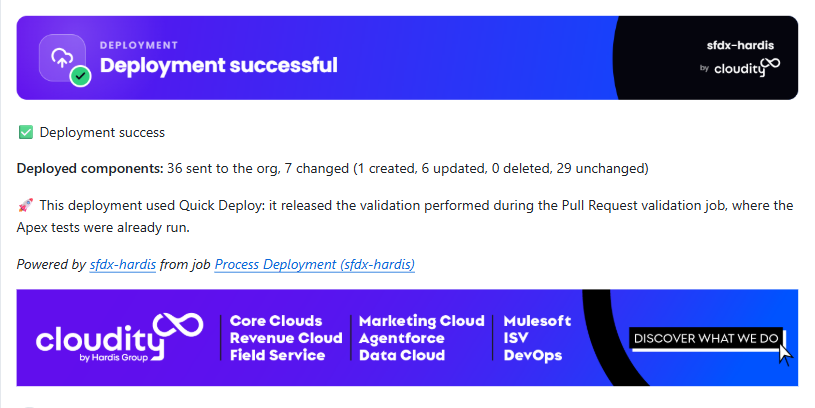
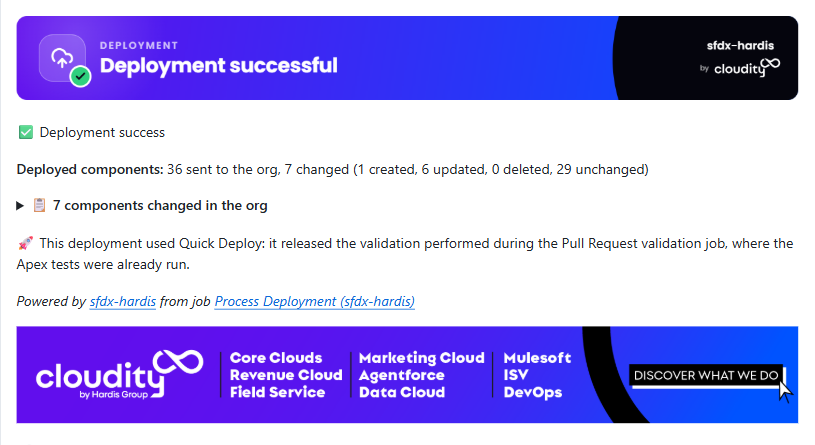
fix: the Level 1 walk of 2026-10-06, on the next release (#91)
* fix(teardown): retry an sf call on a transient DNS error, and say when a cleanup step failed

* docs(labs 1.2, 1.3, 1.5, 1.6, 1.7): a New User Story on a taken name, and the fork address only where a step opens it

* docs(labs 1.2, 1.3, 1.5, 1.6, 1.7): French translation

* fix(lab 1.6): the checks table cites the pills the picture draws, and the comment picture shows the Simulated deployment line

* fix(lab 1.6): the deployment comment picture, retaken on a walk with the next release

* fix(labs 1.2, 1.5): Level 1 pictures retaken with the current extension, the org alias one on integration

* docs(changelog): the Level 1 walk of 2026-10-06

* fix: review of the Level 1 walk, teardown failures reported in every step, deploys streamed again, Lab 1.3 taken name by origin

* docs(labs 1.3, 1.5, 1.6): French translation of the review fixes

* docs(labs 1.6, 3.5): code coverage first in the comment, the protected metadata table collapsed (sfdx-hardis #2304)

* docs(labs 1.6, 3.5): French translation

* docs(changelog): comment layout of sfdx-hardis #2304

* fix(lab 1.6): the check comment picture retaken on the beta with sfdx-hardis #2304, coverage first

* fix(lab 2.4): the Helios project turns the manual action gate on, off by default since sfdx-hardis #2305

Changed region(s): [[0.0, 0.0294, 0.9816, 0.7353], [0.0307, 0.7647, 0.9816, 0.9706]]

diff --git a/labs/fr/level-1-contributor-basics/1-6-pull-request-deployment-check-and-merge.md b/labs/fr/level-1-contributor-basics/1-6-pull-request-deployment-check-and-merge.md
@@ -5,7 +5,7 @@ description: "Ouvrez une Pull Request GitHub, lisez le contrôle de déploiement
 level: 1
 lab: 6
 lang: fr
-source_rev: "8234def2c3d19cf3752d21be9c04204c40ca0ff8"
+source_rev: "e0b26bac584c1b1a250237b3044c45a656322ceb"
 screenshots:
   - annotated/web/github-pr-checks
   - annotated/web/github-pr-comment
@@ -111,8 +111,8 @@ Ouvrez l'onglet **Checks** **(1)**. Deux d'entre eux comptent ici, et les deux d
 
 | Contrôle                                      | Ce qu'il fait                                                                                  |
 |-----------------------------------------------|------------------------------------------------------------------------------------------------|
-| **Simulate Deployment (sfdx-hardis)** **(3)** | Déploie votre métadonnée dans `helios-integration` en mode validation, et lance les tests Apex |
-| **Mega-Linter** **(2)**                       | Lance les linters de qualité de code sur le repository                                         |
+| **Simulate Deployment (sfdx-hardis)** **(2)** | Déploie votre métadonnée dans `helios-integration` en mode validation, et lance les tests Apex |
+| **Mega-Linter** **(3)**                       | Lance les linters de qualité de code sur le repository                                         |
 
 ![L'onglet Checks d'une Pull Request, listant les jobs qui ont tourné](../../_assets/annotated/web/github-pr-checks.png)
 
@@ -144,14 +144,14 @@ Quand le contrôle de déploiement se termine, sfdx-hardis écrit un commentaire
 ![Le commentaire sfdx-hardis sur une Pull Request](../../_assets/annotated/web/github-pr-comment.png)
 
 1. **La bannière** **(1)** dit si le déploiement simulé a réussi
-2. **Ce qui changerait** **(2)**. Pas une liste de vos fichiers : sfdx-hardis envoie le package
+2. **La couverture Apex** **(2)**, juste en dessous, face à l'objectif que fixe ce projet
+3. **Ce qui changerait** **(3)**. Pas une liste de vos fichiers : sfdx-hardis envoie le package
    entier, `manifest/package.xml`, et Salesforce répond quelle part en diffère : `Simulated
    deployment: 36 components validated against the org, 7 would change (1 created, 6 updated, 0
    deleted, 29 unchanged)`. Le composant créé est votre champ, et les composants mis à jour incluent
    la présentation de page et les deux permission sets que vous avez modifiés. Cliquez sur la ligne
    en dessous pour ouvrir un tableau de ces changements, par type de composant : le champ est la
    ligne **CustomField**
-3. **La couverture Apex** **(3)**, face à l'objectif que fixe ce projet
 4. **Les tickets** **(4)**, les stories qu'il a reconnues dans votre nom de branche et vos messages
    de commit, chacune avec son titre et un lien vers sa page dans le backlog
 
@@ -338,7 +338,7 @@ set sans le champ. Refaites le [Lab 1.5, étape 3](1-5-retrieve-commit-and-publi
 
 **Le contrôle reste bloqué sur "Expected".**
 Le workflow attend un job qui ne tournera jamais, en général parce que la base de la Pull Request
-est le repository d'origine et non votre fork (`github.com/my-username/sfdx-hardis-training`).
+est le repository d'origine et non votre fork.
 Fermez-la et rouvrez-la avec la bonne base.
 
 **La boîte de merge dit Merging is blocked, et le bouton est gris.**

diff --git a/labs/en/level-1-contributor-basics/1-6-pull-request-deployment-check-and-merge.md b/labs/en/level-1-contributor-basics/1-6-pull-request-deployment-check-and-merge.md
@@ -107,8 +107,8 @@ Open the **Checks** tab **(1)**. Two of them matter here, and both start on thei
 
 | Check                                         | What it does                                                                                |
 |-----------------------------------------------|---------------------------------------------------------------------------------------------|
-| **Simulate Deployment (sfdx-hardis)** **(3)** | Deploys your metadata into `helios-integration` in validation mode, and runs the Apex tests |
-| **Mega-Linter** **(2)**                       | Runs the code quality linters over the repository                                           |
+| **Simulate Deployment (sfdx-hardis)** **(2)** | Deploys your metadata into `helios-integration` in validation mode, and runs the Apex tests |
+| **Mega-Linter** **(3)**                       | Runs the code quality linters over the repository                                           |
 
 ![The Checks tab of a Pull Request, listing the jobs that ran](../../_assets/annotated/web/github-pr-checks.png)
 
@@ -138,13 +138,13 @@ the most useful thing on the page.
 ![The sfdx-hardis comment on a Pull Request](../../_assets/annotated/web/github-pr-comment.png)
 
 1. **The banner** **(1)** says whether the simulated deployment succeeded
-2. **What would change** **(2)**. Not a list of your files: sfdx-hardis sends the whole package,
+2. **Apex coverage** **(2)**, right under it, against the target this project sets
+3. **What would change** **(3)**. Not a list of your files: sfdx-hardis sends the whole package,
    `manifest/package.xml`, and Salesforce answers how much of it differs: `Simulated deployment: 36
    components validated against the org, 7 would change (1 created, 6 updated, 0 deleted, 29
    unchanged)`. The one created is your field, and the updated ones include the layout and the two
    permission sets you changed. Click the line under it to open a table of those changes, per type
    of component: the field is the **CustomField** row
-3. **Apex coverage** **(3)**, against the target this project sets
 4. **Tickets** **(4)**, the stories it recognised in your branch name and commit messages, each
    with its title and a link to its page in the backlog
 
@@ -321,7 +321,7 @@ without the field. Redo [Lab 1.5 step 3](1-5-retrieve-commit-and-publish-your-ch
 
 **The check is stuck as "Expected".**
 The workflow is waiting for a job that will never run, usually because the base of the Pull Request
-is the original repository and not your fork (`github.com/my-username/sfdx-hardis-training`). Close it and open it again with the right base.
+is the original repository and not your fork. Close it and open it again with the right base.
 
 **The merge box says Merging is blocked, and the button is grey.**
 A required check is still running, or it failed. Wait for it, or open it from the **Checks** tab,

diff --git a/labs/fr/level-1-contributor-basics/1-2-create-your-dev-hub-scratch-orgs-and-pipeline.md b/labs/fr/level-1-contributor-basics/1-2-create-your-dev-hub-scratch-orgs-and-pipeline.md
@@ -5,7 +5,7 @@ description: "Inscrivez-vous à une org Salesforce Developer Edition gratuite, p
 level: 1
 lab: 2
 lang: fr
-source_rev: "14853cbd136b499b32e1dc8bcacfb8f76cbd4578"
+source_rev: "0990e9994b61a2ade22a0280849ae5fe07d2acb0"
 screenshots:
   - annotated/web/sf-signup
   - annotated/web/gh-cli-download
@@ -454,11 +454,9 @@ Sept choses, chacune du vrai travail sur un vrai projet, et aucune à refaire vo
 | `helios-uat`         | La recette utilisateur, où le métier teste ce que l'intégration a rassemblé           |
 
 - **Dans quelle org déploie chaque branche**, écrit dans l'unique fichier de configuration par
-  branche du projet, dans `config/branches/`, commité sur `integration` et poussé sur votre fork
-  (votre copie personnelle du repository du cours sur GitHub, par exemple
-  `github.com/my-username/sfdx-hardis-training`). Le repository ne pouvait pas le savoir : vos orgs
-  n'existaient pas quand il a été écrit. C'est poussé parce que le contrôle du badge clone votre fork
-  (`github.com/my-username/sfdx-hardis-training`) et lit ce qui s'y trouve réellement. `uat` reçoit
+  branche du projet, dans `config/branches/`, commité sur `integration` et poussé sur votre fork. Le repository ne pouvait pas le savoir : vos orgs
+  n'existaient pas quand il a été écrit. C'est poussé parce que le contrôle du badge clone votre fork et lit
+  ce qui s'y trouve réellement. `uat` reçoit
   les mêmes fichiers avec sa première promotion, au [Lab 3.5](../level-3-release-manager/3-5-promote-to-uat-and-write-release-notes.md), comme tout changement qui l'atteint
 - **`integration` et `uat` protégées.** Une Pull Request vers l'une ou l'autre ne peut être mergée
   qu'une fois que tous les contrôles que GitHub lance dessus sont terminés et verts, et cette règle
@@ -546,7 +544,7 @@ Votre `helios-dev` n'est pas dans le diagramme non plus, et c'est correct : le d
 travail est déployé, et rien n'est jamais déployé dans l'org où vous construisez.
 
 !!! note "`preprod` et `main` manquent exprès"
-    Votre fork (`github.com/my-username/sfdx-hardis-training`) a une branche `main`, et pas encore de
+    Votre fork a une branche `main`, et pas encore de
     `preprod`, et le diagramme ne montre ni l'une ni l'autre : une branche ne fait partie de la pipeline
     qu'à partir du moment où quelqu'un dit dans quelle org elle déploie, et personne ne l'a fait.
 

diff --git a/labs/fr/level-1-contributor-basics/1-5-retrieve-commit-and-publish-your-changes.md b/labs/fr/level-1-contributor-basics/1-5-retrieve-commit-and-publish-your-changes.md
@@ -5,7 +5,7 @@ description: "Rapatriez vos modifications d'org dans Git avec le Metadata Retrie
 level: 1
 lab: 5
 lang: fr
-source_rev: "d0a3a04d32929b6ab52a1f9590ff383010fc3ea1"
+source_rev: "e02b8da9d8186fdb3574371c6b54375323049f2d"
 screenshots:
   - annotated/vscode/pipeline-cards-level1--commit-changes
   - annotated/vscode/metadata-retriever-recent-changes--find
@@ -325,8 +325,7 @@ qui a effectué, dans cet ordre :
 4. **Commité ce qu'il a modifié**, sous `chore(sfdx-hardis): update package content` et
    `chore(sfdx-hardis): clean sfdx project`. Ces commits sont ceux de l'outil, pas les vôtres : le
    vôtre est celui que vous avez écrit à l'étape 4
-5. **Poussé** la branche sur votre fork (votre copie personnelle du repository du cours sur GitHub, par
-   exemple `github.com/my-username/sfdx-hardis-training`)
+5. **Poussé** la branche sur votre fork
 
 Chacune de ces étapes est de la configuration, pas de la magie. Tout ce qu'il a fait est dans
 `config/.sfdx-hardis.yml`, et un projet qui veut un autre comportement change ce fichier.
@@ -383,14 +382,14 @@ plus. Lisez les règles de nettoyage dans le bloc Sous le capot ci-dessus. Rien 
 org : le nettoyage change ce qui est commité, jamais ce qui est dans Salesforce.
 
 **Le push est rejeté.**
-Votre fork (`github.com/my-username/sfdx-hardis-training`) a bougé, en général parce que vous avez
+Votre fork a bougé, en général parce que vous avez
 réinitialisé un niveau. Tirez d'abord : panneau Source Control, menu **...**, **Pull**.
 
 ## Vérifiez votre travail
 
 Welcome page > **Training: Level 1** > **Check my work**, puis choisissez le **Lab 1.5**.
 
-Il lit la copie de votre branche dans votre fork (`github.com/my-username/sfdx-hardis-training`),
+Il lit la copie de votre branche dans votre fork,
 celle que Save / Publish a poussée : le champ, le permission set qui l'accorde, et la présentation de
 page qui le porte. Un commit resté sur votre machine ne compte pas, parce que personne d'autre ne
 peut le voir.

diff --git a/labs/en/level-1-contributor-basics/1-2-create-your-dev-hub-scratch-orgs-and-pipeline.md b/labs/en/level-1-contributor-basics/1-2-create-your-dev-hub-scratch-orgs-and-pipeline.md
@@ -430,9 +430,9 @@ Seven things, each of them real work on a real project, and none of them yours t
 | `helios-uat`         | User acceptance, where the business tests what integration has collected |
 
 - **Which org each branch deploys to**, written into the project's one configuration file per
-  branch, in `config/branches/`, committed on `integration` and pushed to your fork (your own copy of the course repository on GitHub, for example `github.com/my-username/sfdx-hardis-training`). The repository
+  branch, in `config/branches/`, committed on `integration` and pushed to your fork. The repository
   could not know that: your orgs did not exist when it was written. It is pushed because the badge
-  check clones your fork (`github.com/my-username/sfdx-hardis-training`) and reads what is actually in it. `uat` receives the same files with its
+  check clones your fork and reads what is actually in it. `uat` receives the same files with its
   first promotion, in [Lab 3.5](../level-3-release-manager/3-5-promote-to-uat-and-write-release-notes.md), the way every change reaches it
 - **`integration` and `uat` protected.** A Pull Request into either one can only be merged once
   every check GitHub runs on it has finished green, and that rule holds for you too, the owner of
@@ -514,7 +514,7 @@ Your own `helios-dev` is not in the diagram either, and that is correct: the dia
 is deployed, and nothing is ever deployed into the org you build in.
 
 !!! note "`preprod` and `main` are missing on purpose"
-    Your fork (`github.com/my-username/sfdx-hardis-training`) has a `main` branch, and no
+    Your fork has a `main` branch, and no
     `preprod` yet, and the diagram shows neither: a branch becomes part of the pipeline only once
     somebody says which org it deploys to, and nobody has.
 

diff --git a/labs/fr/level-1-contributor-basics/1-3-start-a-user-story-on-a-git-branch.md b/labs/fr/level-1-contributor-basics/1-3-start-a-user-story-on-a-git-branch.md
@@ -5,7 +5,7 @@ description: "Prenez votre premier ticket du backlog et créez sa branche Git et
 level: 1
 lab: 3
 lang: fr
-source_rev: "9c0626c6cc38da209d2afd619561a0e94eaff865"
+source_rev: "e02b8da9d8186fdb3574371c6b54375323049f2d"
 screenshots:
   - annotated/vscode/pipeline-cards-level1--new-user-story
   - annotated/vscode/work-new-story-type
@@ -241,6 +241,19 @@ construit quelque chose.
 **La commande refuse le nom.**
 Le motif qu'utilise ce projet est `US-014-panels-required` : trois chiffres, puis des mots en
 minuscules séparés par des tirets. `US14-PanelsRequired` est rejeté exprès.
+
+**Elle dit que la branche existe déjà et demande un autre nom.**
+Une nouvelle User Story ne réutilise jamais une branche : une ancienne branche emporterait ses propres
+commits dans votre Pull Request. La sortie dépend de l'origine de cette branche :
+
+- **Vous travaillez en ce moment sur US-014**, et la commande s'est arrêtée en route ou vous avez
+  cliqué deux fois sur **New User Story**. Vous n'avez pas besoin d'une deuxième branche : cliquez
+  sur **Cancel**, puis sur le nom de la branche en bas à gauche de la barre d'état, et choisissez
+  `features/US-014-panels-required` dans la liste. Si vous aviez des changements non commités, la
+  commande les a mis de côté avant de demander : l'entrée suivante les récupère
+- **Elle reste d'une tentative abandonnée**, après un **Reset this level** qui l'a gardée. N'y
+  retournez pas : elle part d'un ancien `integration`. Tapez plutôt un nouveau nom,
+  `US-014-panels-required-2`, et continuez à partir de là
 
 **Un fichier que vous éditiez a disparu.**
 Vous avez modifié quelque chose avant de démarrer, et `hardis:work:new` n'emporte jamais du travail

diff --git a/labs/fr/level-1-contributor-basics/1-7-capstone-deliver-a-user-story-on-your-own.md b/labs/fr/level-1-contributor-basics/1-7-capstone-deliver-a-user-story-on-your-own.md
@@ -5,7 +5,7 @@ description: "Livrez une User Story Salesforce de bout en bout sans pas-à-pas :
 level: 1
 lab: 7
 lang: fr
-source_rev: "227087b70542c7fdd5f235321968b5154475be67"
+source_rev: "0990e9994b61a2ade22a0280849ae5fe07d2acb0"
 screenshots:
   - annotated/web/github-star-sfdx-hardis
 depends_on:
@@ -124,7 +124,7 @@ depuis un lien et le formulaire refuse d'être soumis tant qu'elle affiche *None
 trois cases et cliquez sur **Create**.
 
 Ces trois cases sont à vous de cocher, et rien ne les coche à votre place. Elles disent que votre
-fork (`github.com/my-username/sfdx-hardis-training`) est public et que votre pseudo GitHub devient
+fork est public et que votre pseudo GitHub devient
 public dans le repository de formation, ce qui est une décision à propos de votre nom plutôt qu'une
 formalité.
 
@@ -136,12 +136,12 @@ formalité.
 
     ![Le bouton Star du repository sfdx-hardis sur GitHub](../../_assets/annotated/web/github-star-sfdx-hardis.png)
 
-Un job clone ensuite votre fork (`github.com/my-username/sfdx-hardis-training`), rejoue sur lui tous
+Un job clone ensuite votre fork, rejoue sur lui tous
 les contrôles ci-dessus, et répond sur l'issue. Personne ne le relit à la main, cela prend donc
 généralement deux minutes. Si quelque chose ne se vérifie pas, le commentaire nomme le lab exact et
 ce qu'il a cherché, vous corrigez, et vous modifiez l'issue pour le relancer.
 
-Votre fork (`github.com/my-username/sfdx-hardis-training`) doit être **public** pour que l'audit
+Votre fork doit être **public** pour que l'audit
 puisse le lire. S'il est privé, la commande propose de le rendre public.
 
 !!! note "C'est un badge, pas une certification"

diff --git a/labs/en/level-1-contributor-basics/1-7-capstone-deliver-a-user-story-on-your-own.md b/labs/en/level-1-contributor-basics/1-7-capstone-deliver-a-user-story-on-your-own.md
@@ -117,7 +117,7 @@ it. One field is not filled in: pick your level in the **Level** dropdown, becau
 not prefill a dropdown from a link and the form refuses to submit while it says *None*. Then tick
 the three boxes and click **Create**.
 
-Those three boxes are yours to tick, and nothing ticks them for you. They say your fork (`github.com/my-username/sfdx-hardis-training`) is public
+Those three boxes are yours to tick, and nothing ticks them for you. They say your fork is public
 and your GitHub handle becomes public in the training repository, which is a decision about your
 name rather than a formality.
 
@@ -128,12 +128,12 @@ name rather than a formality.
 
     ![The Star button of the sfdx-hardis repository on GitHub](../../_assets/annotated/web/github-star-sfdx-hardis.png)
 
-A job then clones your fork (`github.com/my-username/sfdx-hardis-training`), re-runs every check above against it, and answers on the issue. Nobody
+A job then clones your fork, re-runs every check above against it, and answers on the issue. Nobody
 reviews it by hand, so it usually takes a couple of minutes. If something does not verify, the
 comment names the exact lab and what it looked for, you fix it, and you edit the issue to run it
 again.
 
-Your fork (`github.com/my-username/sfdx-hardis-training`) has to be **public** for the audit to read it. If it is private, the command offers to
+Your fork has to be **public** for the audit to read it. If it is private, the command offers to
 make it public.
 
 !!! note "It is a badge, not a certification"

diff --git a/labs/en/level-1-contributor-basics/1-5-retrieve-commit-and-publish-your-changes.md b/labs/en/level-1-contributor-basics/1-5-retrieve-commit-and-publish-your-changes.md
@@ -309,7 +309,7 @@ which performed, in order:
 4. **Committed what it changed**, as `chore(sfdx-hardis): update package content` and
    `chore(sfdx-hardis): clean sfdx project`. Those commits are the tool's, not yours: yours is the
    one you wrote at step 4
-5. **Pushed** the branch to your fork (your own copy of the course repository on GitHub, for example `github.com/my-username/sfdx-hardis-training`)
+5. **Pushed** the branch to your fork
 
 Every one of those steps is configuration, not magic. Everything it did is in
 `config/.sfdx-hardis.yml`, and a project that wants different behaviour changes that file.
@@ -362,14 +362,14 @@ cleaning rules in the Under the hood block above. Nothing is lost in your org: c
 is committed, never what is in Salesforce.
 
 **Push is rejected.**
-Your fork (`github.com/my-username/sfdx-hardis-training`) moved, usually because you reset a level. Pull first: Source Control panel, **...** menu,
+Your fork moved, usually because you reset a level. Pull first: Source Control panel, **...** menu,
 **Pull**.
 
 ## Check your work
 
 Welcome page > **Training: Level 1** > **Check my work**, then pick **Lab 1.5**.
 
-It reads the copy of your branch in your fork (`github.com/my-username/sfdx-hardis-training`), the one Save / Publish pushed: the field, the
+It reads the copy of your branch in your fork, the one Save / Publish pushed: the field, the
 permission set granting it, and the layout carrying it. A commit that stayed on your machine does
 not count, because nobody else can see it.
 

diff --git a/labs/en/level-1-contributor-basics/1-3-start-a-user-story-on-a-git-branch.md b/labs/en/level-1-contributor-basics/1-3-start-a-user-story-on-a-git-branch.md
@@ -230,6 +230,19 @@ something.
 The pattern this project uses is `US-014-panels-required`: three digits, then lowercase words
 separated by hyphens. `US14-PanelsRequired` is rejected on purpose.
 
+**It says the branch already exists and asks for another name.**
+A new User Story never reuses a branch: an old branch would carry its own commits into your Pull
+Request. Which way out depends on where that branch comes from:
+
+- **You are working on US-014 right now**, and the command stopped halfway or you clicked **New User
+  Story** twice. You do not need a second branch: click **Cancel**, then click the branch name at the
+  bottom left of the status bar and pick `features/US-014-panels-required` from the list. If you had
+  changes you had not committed, the command put them aside before it asked: the next entry gets
+  them back
+- **It is left over from an attempt you gave up**, after **Reset this level** kept it. Do not go back
+  to it: it starts from an old `integration`. Type a new name instead, `US-014-panels-required-2`,
+  and carry on from there
+
 **A file you were editing has disappeared.**
 You changed something before starting, and `hardis:work:new` never carries stray work onto a fresh
 branch: it puts it aside in a *stash*, and says so in its panel, naming the files. To get them back

diff --git a/CHANGELOG.md b/CHANGELOG.md
@@ -5,6 +5,12 @@ a day, newest first, and a change goes under the date of the day it is made.
 
 ## 2026-10-06
 
+- Lab 2.4: the Helios project turns on the stop of the check on a pending manual step, which sfdx-hardis no longer does by default.
+- Clean up a training org says when a step failed instead of "nothing to remove", and retries when the org's address briefly does not answer.
+- Lab 1.3: what to do when New User Story says the branch already exists.
+- Lab 1.6: the checks table names the pills the picture carries, the check comment picture shows the Simulated deployment line, and the deployment one its table of changes.
+- Level 1: the address of your fork is spelled out where a step opens it, not in every paragraph.
+- Labs 1.6 and 3.5: the comment shows the code coverage first, and its protected metadata table is opened from a collapsed section.
 - Labs 1.6 and 3.2: the Pull Request comment reads "Simulated deployment" on a check, with a table of the changes per type of component.
 - Lab 3.5: the Pull Request comment shows the remote site setting protected by package-no-overwrite.xml.
 - Lab 3.1: JWT is configured for preprod and production only, the configuration starts with a New User Story, and the second secret has its own picture.

diff --git a/labs/fr/level-3-release-manager/3-5-promote-to-uat-and-write-release-notes.md b/labs/fr/level-3-release-manager/3-5-promote-to-uat-and-write-release-notes.md
@@ -5,7 +5,7 @@ description: "Protégez ce que l'UAT garde pour elle avec package-no-overwrite, 
 level: 3
 lab: 5
 lang: fr
-source_rev: "8234def2c3d19cf3752d21be9c04204c40ca0ff8"
+source_rev: "e0b26bac584c1b1a250237b3044c45a656322ceb"
 screenshots:
   - annotated/vscode/devops-pipeline-level3--create-promotion
   - annotated/vscode/pipeline-branch-modal-level3--what-it-carries
@@ -230,8 +230,9 @@ Type RemoteSiteSetting: 1 item(s) skipped because they already exist in the targ
 **Final package.xml to deploy** affiché juste après a un élément de moins.
 
 La Pull Request le dit aussi, sans le log : le commentaire du contrôle, et celui qu'écrit ce
-déploiement, portent une section **Protected metadata (package-no-overwrite.xml)**, et son tableau
-compte **1** dans la colonne **Not overwritten** de la ligne **RemoteSiteSetting**. Lisez-la sur le
+déploiement, portent une section **Protected metadata (package-no-overwrite.xml)**. Ouvrez son
+tableau, **Protected components per metadata type** : il compte **1** dans la colonne **Not
+overwritten** de la ligne **RemoteSiteSetting**. Lisez-la sur le
 contrôle, avant de merger : un composant que vous pensiez déployer et qui apparaît là est un
 composant que la liste protège par erreur.
 
